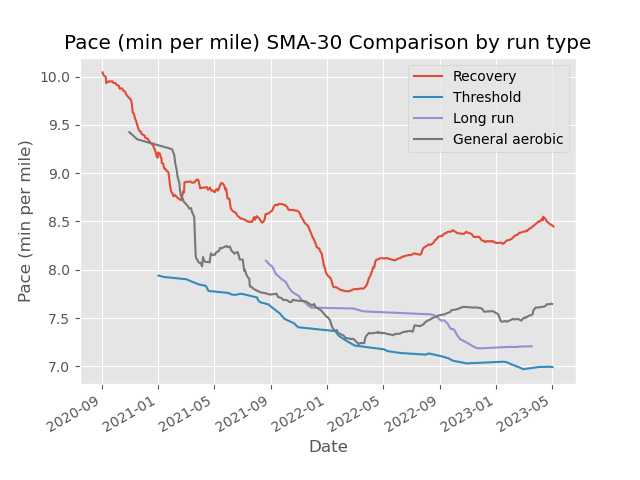
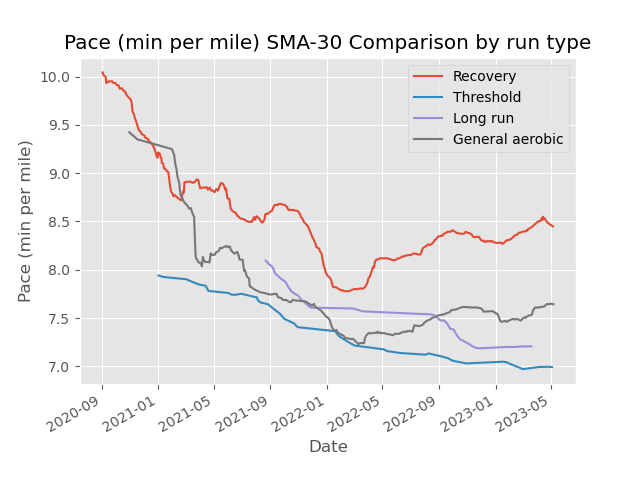
added histogram of pace chart

diff --git a/templates/runstats.html b/templates/runstats.html
@@ -4,6 +4,9 @@
 		<h3> <a href="/"class="button">HOME</a></h3>
 		<div class="parent">
 			<div>
+				<img src={{url_for('static',filename="Histogram of Pace (min per mile).png")}} />
+			</div>
+			<div>
 				<img src={{url_for('static',filename="Pace (min per mile) Comparison by run type.png")}} />
 			</div>
 			<div>

diff --git a/plot.py b/plot.py
@@ -37,7 +37,8 @@ def distribution(df, variable):
 	print(df[variable])
 
 	plt.style.use('ggplot')
-	df.plot.hist(by=[variable], bins=10)
+	#df.plot.hist(by=[variable], bins=10)
+	df.hist(column=variable, bins=10)
 
 	plt.title('Histogram of ' + variable)
 	
